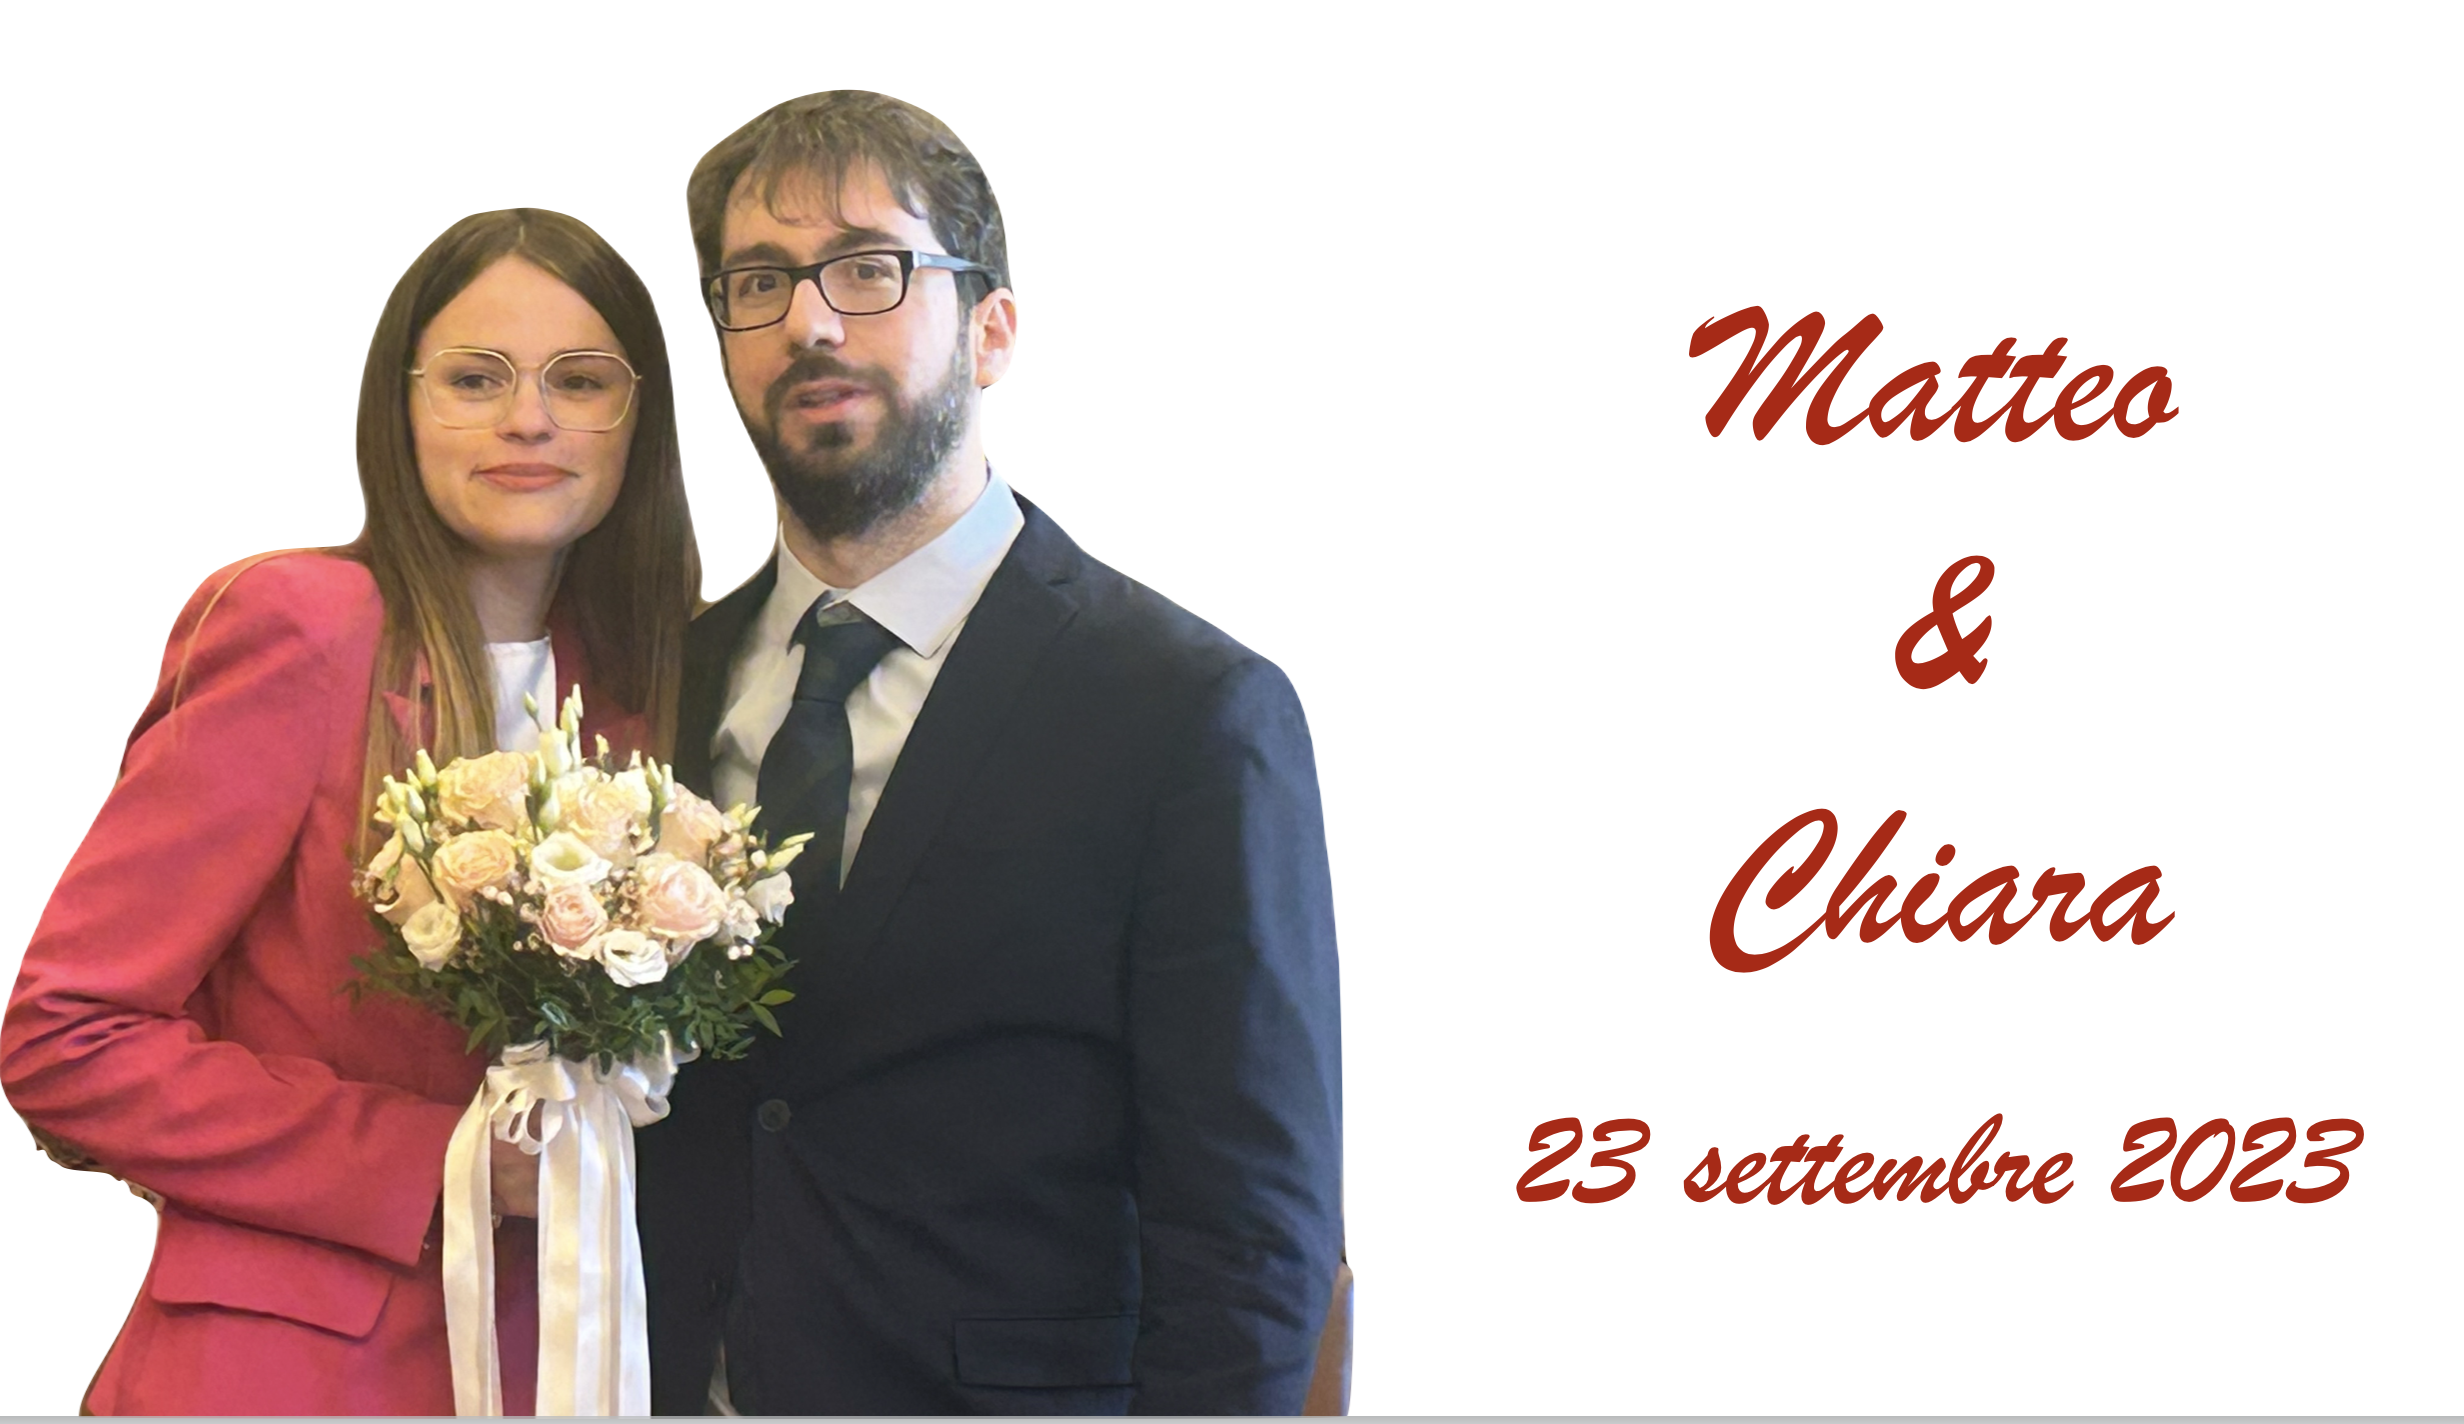
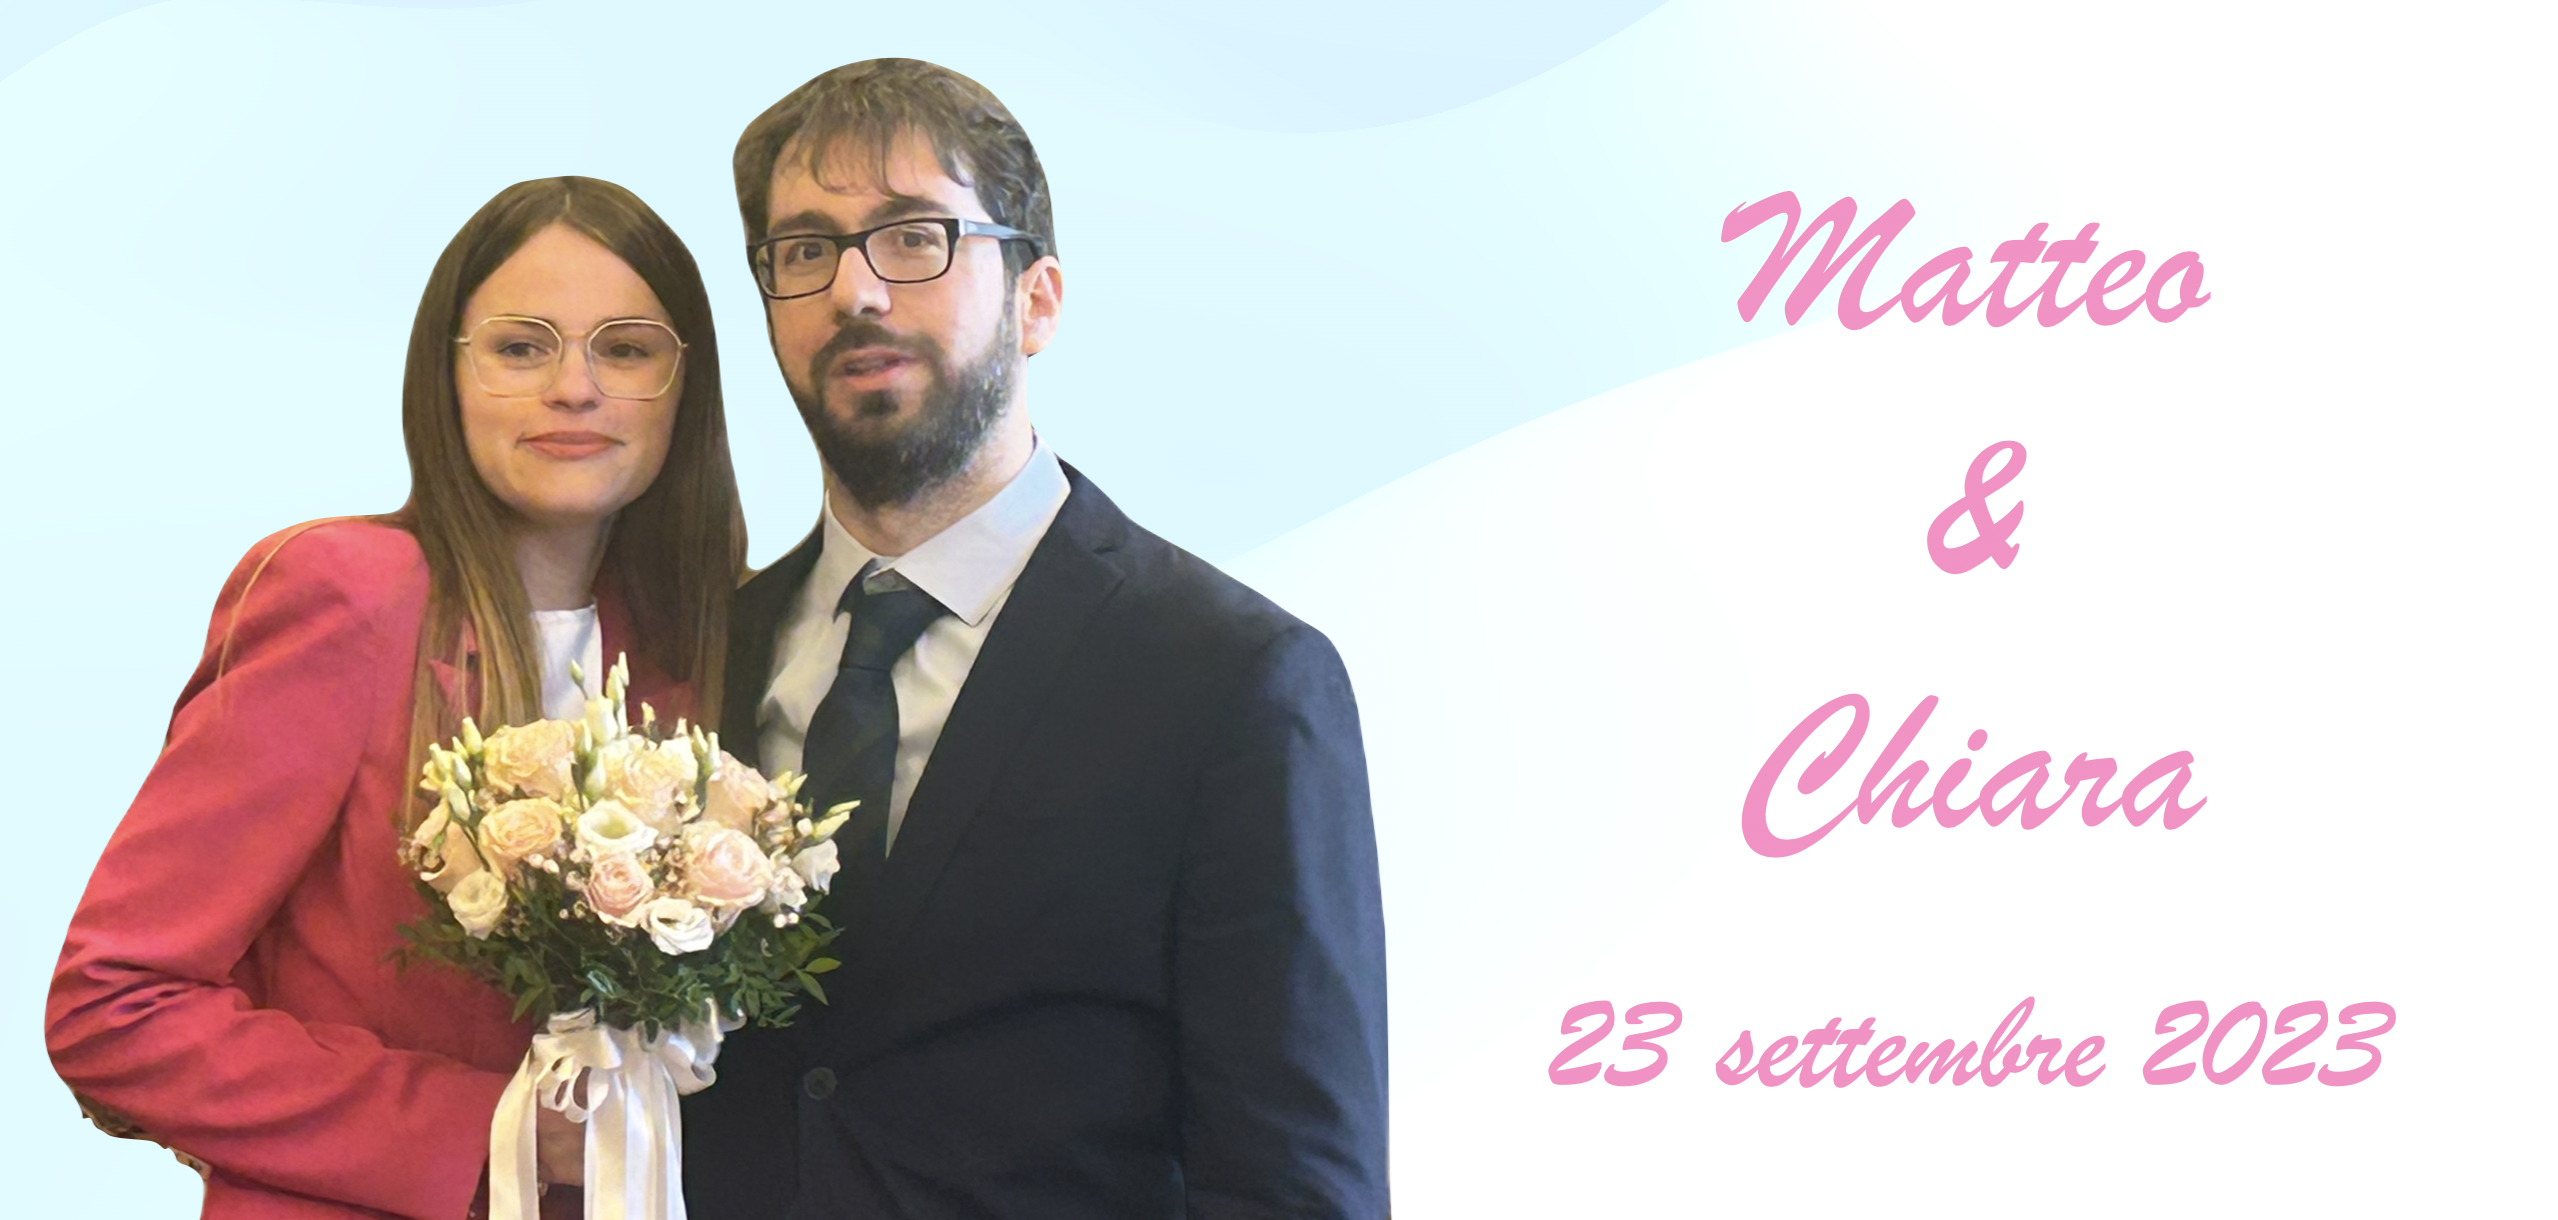
edited text and colors

diff --git a/index.html b/index.html
@@ -32,15 +32,15 @@
 <body class="d-flex flex-column h-100 mt-0 pt-0 mx-0 g-0">
 
 
-  <ul class="nav justify-content-center bgcolor2 px-3 py-2 mx-0 menu">
+  <ul class="nav justify-content-center bgcolor2 px-3 pt-2 mx-0 menu">
     <li class="nav-item">
-      <a class="nav-link active text-white" href="#">Home</a>
+      <a class="nav-link active text-dark" href="#">Home</a>
     </li>
     <li class="nav-item">
-      <a class="nav-link text-dark" href="#Cerimonia">La Cerimonia</a>
+      <a class="nav-link text-dark" href="#Cerimonia">Cerimonia</a>
     </li>
     <li class="nav-item">
-      <a class="nav-link text-dark" href="#Ricevimento">Il Ricevimento</a>
+      <a class="nav-link text-dark" href="#Ricevimento">Ricevimento</a>
     </li>
     <!-- <li class="nav-item">
       <a class="nav-link text-dark" href="#Gallery">Galleria</a>
@@ -51,11 +51,11 @@
 
 
 
-    <div class="container-fluid mt-2 pt-2 mx-0 px-0">
+    <div class="container-fluid mt-0 pt-0 mx-0 px-0">
 
       <div class="row">
 
-        <div class="col-md-12 fs-5 mt-0 px-4">
+        <div class="col-md-12 fs-5 mt-0 px-0">
 
 
           <img src="images/background.png" class="img-fluid" alt="Matteo&Chiara">
@@ -73,11 +73,11 @@
           <div class="px-4 py-2">
             <b>È proprio vero, ci sposiamo!!!</b></br>
 
-            Siamo felicissimi! Non stiamo più nella pelle e vogliamo condividere con te questa notizia! Stiamo
+            Siamo felicissimi! Non stiamo più nella pelle e vogliamo condividere con voi questa notizia! Stiamo
             organizzando questo matrimonio e vogliamo che sia un giorno speciale per tutti.
 
             In attesa del grande giorno, abbiamo creato questo sito, dove puoi trovare tutta una serie informazioni da
-            condividere e i dettagli della nostra storia d'amore.
+            condividere.
           </div>
         </div>
 
@@ -95,6 +95,8 @@
         <div class="col-md-8 fs-5 mt-2 px-4">
 
           <h1 class="display-2 text-center newfont">La Cerimonia<a id="Cerimonia"></a></h1>
+          <p class="h2 text-center newfont">Chiesa di San Martino, Piazza Duomo 2</p>
+
 
           <div class="row">
 
@@ -106,7 +108,11 @@
 
             <div class="col-md-6 py-3">
 
-              <div> La cerimonia si svolgerà nel duomo di Belluno </div>
+              <div> La cerimonia si svolgerà alle ore <b>11</b> nella cattedrale di <b>San Martino </b> a Belluno.
+                </br> Tutti i sabati c'è il mercato e non è possibile raggiungere la chiesa in macchina; vi consigliamo
+                di posteggiare la macchina nel posteggio Lambioi e di raggiungere la chiesa usando le scale mobili che
+                collegano il posteggio alla piazza della chiesa.
+              </div>
 
               <div class="px-3 py-3 center-block">
                 <iframe
@@ -135,6 +141,7 @@
         <div class="col-md-8 fs-5 mt-2 px-4">
 
           <h1 class="display-2 text-center newfont">Il ricevimento<a id="Ricevimento"></a></h1>
+          <p class="h2 text-center newfont">Castelbrando, Via Pietro Mascagni 8</p>
 
           <div class="row">
 
@@ -146,7 +153,11 @@
 
             <div class="col-md-6 py-3">
 
-              <div> Il ricevimento avverrà a Castelbrando </div>
+              <div> Il ricevimento avverrà al termine della celebrazione presso <b>Castelbrando</b>. Gli ospiti devono puntare
+                il parcheggio in Via Pietro Mascagni 8, seguendo le indicazioni "Parcheggio Visitatori". Dal posteggio
+                bisogna prendere l'ascensore panoramico (per l'occasione gratuito) che vi porterà direttamente al
+                castello. </div>
+
 
               <div class="px-3 py-3 center-block">
                 <iframe
@@ -220,10 +231,10 @@
 
         <div class="col-md-8">
 
-          <h1 class="display-3 text-center newfont">Se vuoi partecipare</h1>
+          <p class="h1 text-center newfont">Grazie a voi che contribuendo ci aiuterete a realizzare il viaggio dei nostri sogni</p>
 
-          <div class="py-3">
-            Se vuoi aiutarci il nostro IBAN è CH....
+          <div class="py-3 px-4 h4">
+            IBAN: CH1234567890123
           </div>
 
 

diff --git a/css/index.css b/css/index.css
@@ -3,12 +3,20 @@ body {
     font-family: Algerian;
   }
 
-.bgcolor{
+.bgcolor__{
     background-color: rgb(248,236,226);
 }
 
-.bgcolor2{
+.bgcolor{
+  background-color: rgb(250,222,237);
+}
+
+.bgcolor2_{
   background-color: rgb(194,93,51);
+}
+
+.bgcolor2{
+  background-color: rgb(255,141,198);
 }
 
 /* @font-face {
@@ -27,6 +35,6 @@ body {
 }
 
 .menu {
-  font-size: 20px;
+  font-size: 24px;
   font-family: 'NewFont', 'Arial';
 }
